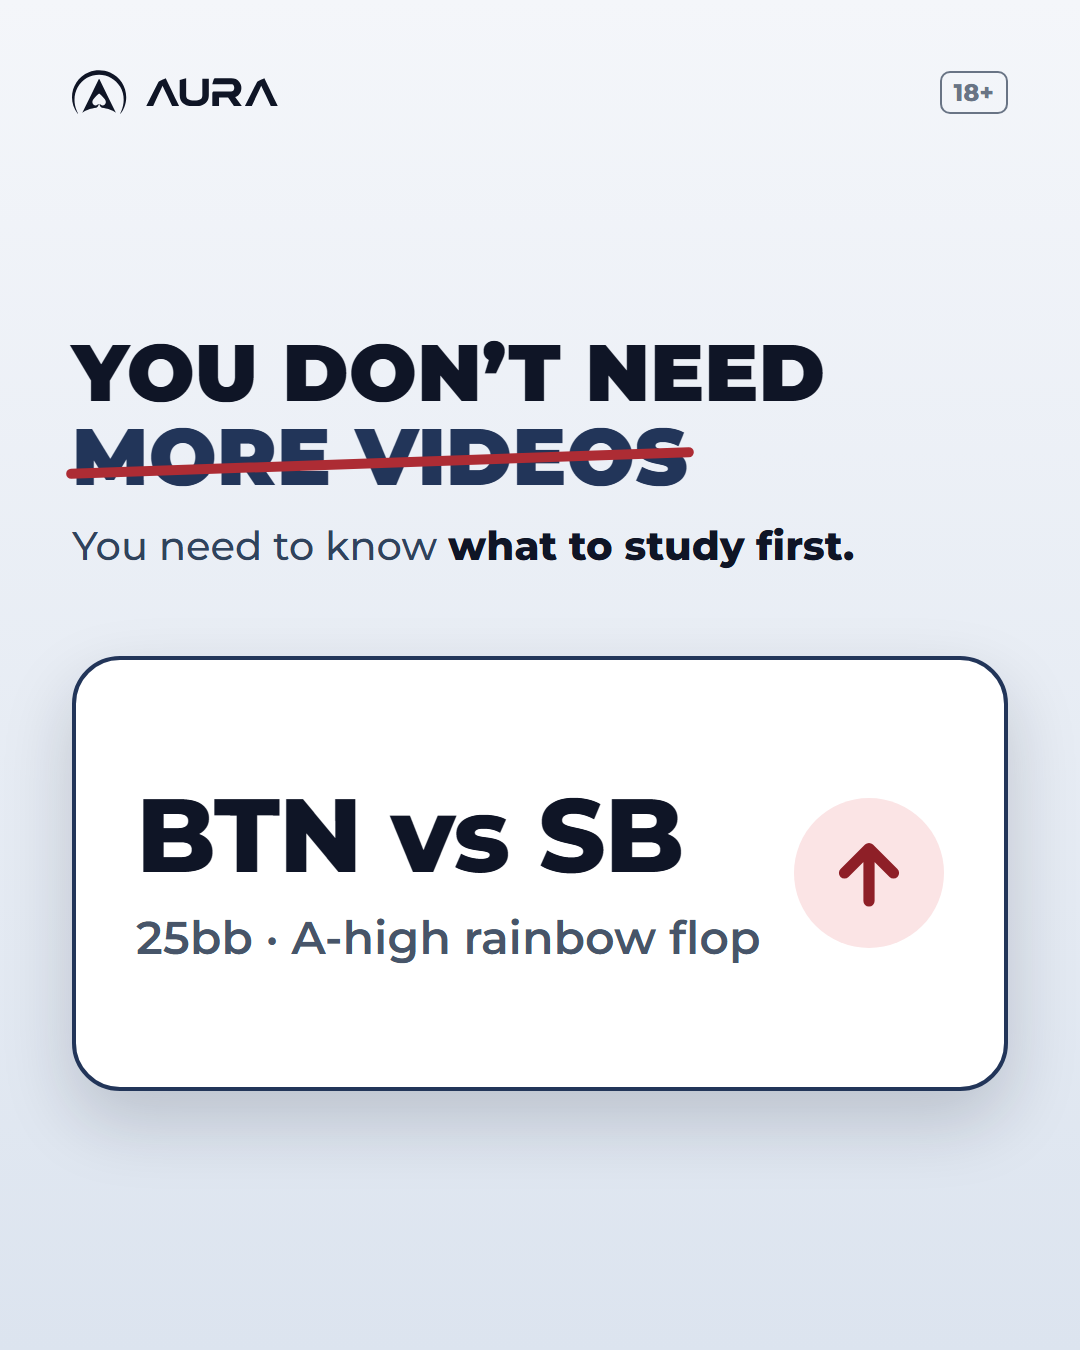
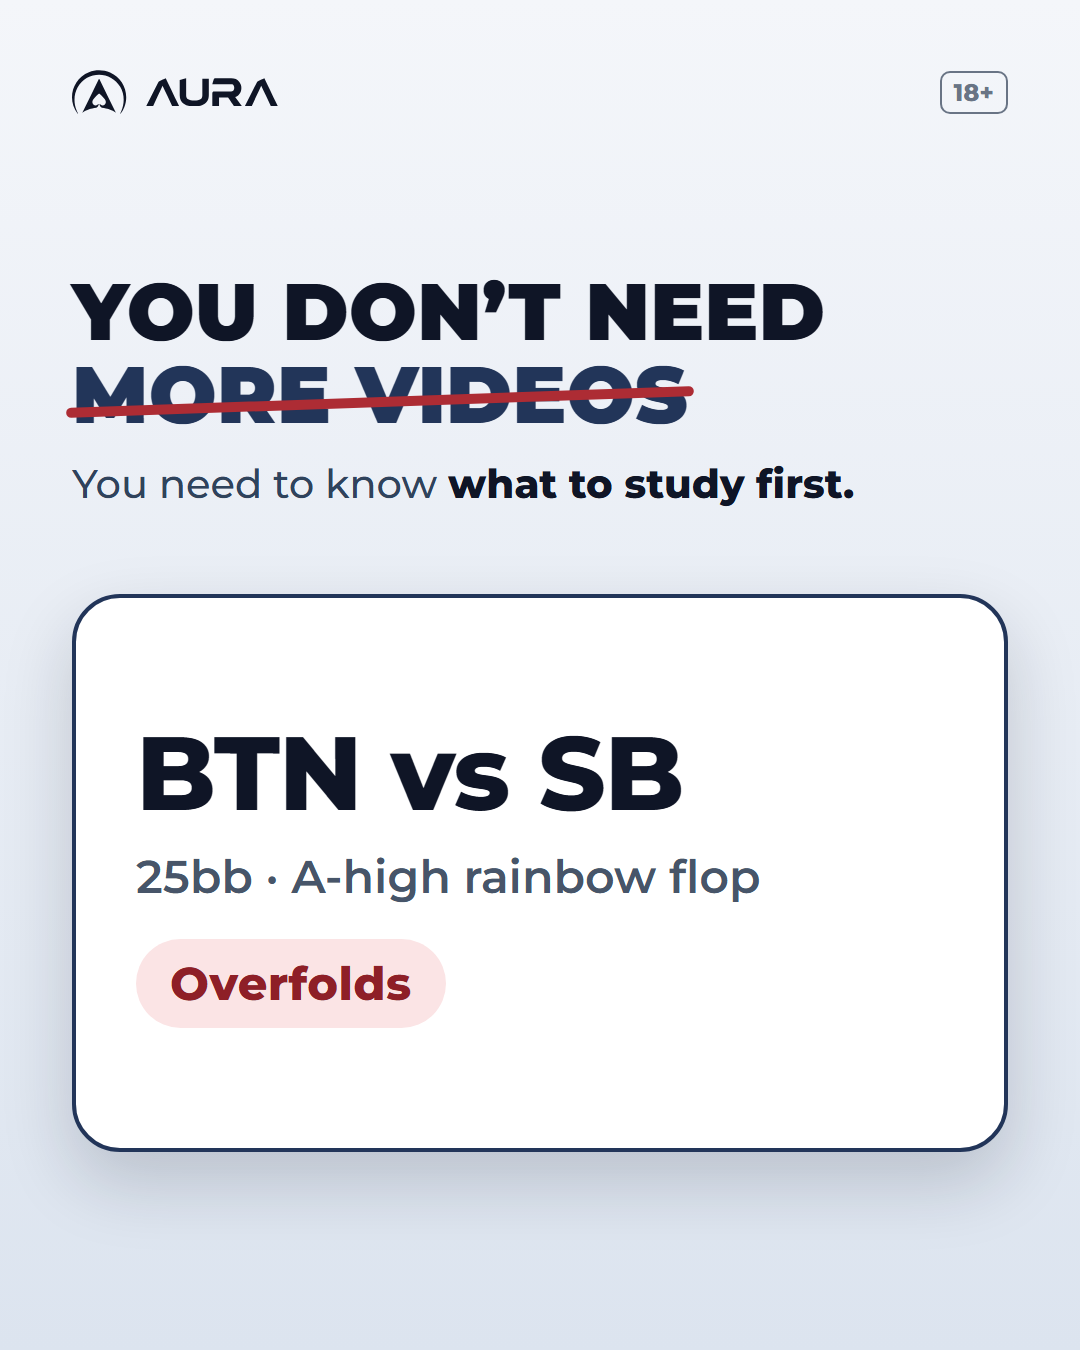
feat(ads): peça B com o rótulo "Folda demais" / "Overfolds" no lugar da seta
Pedido da HUB: a seta sozinha podia ser lida como "subiu" ou "bom".

Changed region(s): [[0.0611, 0.1867, 0.9472, 0.5289], [0.0611, 0.5289, 0.9472, 0.8711], [0.7333, 0.5911, 0.8861, 0.7156]]

diff --git a/content/ads/sinal01/fonte/pt/sinal01-B-pt-feed.html b/content/ads/sinal01/fonte/pt/sinal01-B-pt-feed.html
@@ -8,6 +8,6 @@
 <path d="M306.766 264.784H384.095C387.141 264.784 389.709 264.054 391.785 262.581C393.862 261.12 395.448 258.853 396.555 255.794C397.046 254.572 397.411 253.351 397.65 252.13C397.889 250.782 398.015 249.448 398.015 248.1C398.015 244.801 397.462 241.993 396.367 239.664C395.272 237.221 393.623 235.269 391.42 233.796C390.325 233.066 389.155 232.575 387.934 232.336C386.713 231.97 385.429 231.782 384.083 231.782H299.429C300.889 226.896 303.091 219.618 306.024 209.973C306.515 208.386 307.37 207.102 308.591 206.12C309.938 205.138 311.461 204.659 313.173 204.659H384.448C392.264 204.659 399.224 206.07 405.34 208.877C411.445 211.811 416.706 216.092 421.098 221.708C424.144 225.864 426.41 230.258 427.882 234.904C429.468 239.425 430.261 244.31 430.261 249.573C430.261 255.806 429.166 261.485 426.963 266.622C424.887 271.634 421.765 276.154 417.612 280.184C415.409 282.261 413.031 284.1 410.463 285.686C407.895 287.147 405.152 288.381 402.219 289.35C409.305 298.882 419.865 313.186 433.923 332.25H398.015C391.911 323.335 382.685 309.887 370.351 291.919H329.673V332.25H299.441V272.314C299.441 270.236 300.171 268.461 301.644 267C303.104 265.54 304.815 264.797 306.779 264.797L306.766 264.784Z"/>
 <path d="M476.263 332.237H445.112C454.275 314.156 463.374 296.062 472.411 277.98C481.574 259.899 490.737 241.804 499.899 223.723C500.755 222.262 501.787 220.915 503.021 219.694C504.241 218.598 505.588 217.679 507.048 216.949C511.567 214.871 516.022 212.793 520.427 210.716C524.946 208.638 529.401 206.624 533.806 204.672C547.361 233.028 567.763 275.55 595 332.25H563.673C556.348 316.611 549.01 301.023 541.685 285.51C534.36 269.871 526.959 254.232 519.521 238.581C512.309 254.22 505.11 269.871 497.898 285.51C490.686 301.035 483.487 316.611 476.275 332.25L476.263 332.237Z"/></svg></span></div><span class="age">18+</span></div>
   <div class="main"><div><h1>Você não precisa<br>de <s>mais vídeo</s></h1><p class="sup">Precisa saber <b>o que estudar primeiro.</b></p></div>
-    <div class="card"><div><div class="p">BTN vs SB</div><div class="q">25bb · flop A-high rainbow</div></div><span class="ar"><svg viewBox="0 0 24 24" fill="none" stroke="currentColor" stroke-width="3.2" stroke-linecap="round" stroke-linejoin="round"><path d="M12 20V5M5 12l7-7 7 7"/></svg></span></div></div>
+    <div class="card"><div><div class="p">BTN vs SB</div><div class="q">25bb · flop A-high rainbow</div><span class="tag">Folda demais</span></div></div></div>
 
 </body></html>

diff --git a/content/ads/sinal01/fonte/pt/sinal01-B-pt-story.html b/content/ads/sinal01/fonte/pt/sinal01-B-pt-story.html
@@ -8,6 +8,6 @@
 <path d="M306.766 264.784H384.095C387.141 264.784 389.709 264.054 391.785 262.581C393.862 261.12 395.448 258.853 396.555 255.794C397.046 254.572 397.411 253.351 397.65 252.13C397.889 250.782 398.015 249.448 398.015 248.1C398.015 244.801 397.462 241.993 396.367 239.664C395.272 237.221 393.623 235.269 391.42 233.796C390.325 233.066 389.155 232.575 387.934 232.336C386.713 231.97 385.429 231.782 384.083 231.782H299.429C300.889 226.896 303.091 219.618 306.024 209.973C306.515 208.386 307.37 207.102 308.591 206.12C309.938 205.138 311.461 204.659 313.173 204.659H384.448C392.264 204.659 399.224 206.07 405.34 208.877C411.445 211.811 416.706 216.092 421.098 221.708C424.144 225.864 426.41 230.258 427.882 234.904C429.468 239.425 430.261 244.31 430.261 249.573C430.261 255.806 429.166 261.485 426.963 266.622C424.887 271.634 421.765 276.154 417.612 280.184C415.409 282.261 413.031 284.1 410.463 285.686C407.895 287.147 405.152 288.381 402.219 289.35C409.305 298.882 419.865 313.186 433.923 332.25H398.015C391.911 323.335 382.685 309.887 370.351 291.919H329.673V332.25H299.441V272.314C299.441 270.236 300.171 268.461 301.644 267C303.104 265.54 304.815 264.797 306.779 264.797L306.766 264.784Z"/>
 <path d="M476.263 332.237H445.112C454.275 314.156 463.374 296.062 472.411 277.98C481.574 259.899 490.737 241.804 499.899 223.723C500.755 222.262 501.787 220.915 503.021 219.694C504.241 218.598 505.588 217.679 507.048 216.949C511.567 214.871 516.022 212.793 520.427 210.716C524.946 208.638 529.401 206.624 533.806 204.672C547.361 233.028 567.763 275.55 595 332.25H563.673C556.348 316.611 549.01 301.023 541.685 285.51C534.36 269.871 526.959 254.232 519.521 238.581C512.309 254.22 505.11 269.871 497.898 285.51C490.686 301.035 483.487 316.611 476.275 332.25L476.263 332.237Z"/></svg></span></div><span class="age">18+</span></div>
   <div class="main"><div><h1>Você não precisa<br>de <s>mais vídeo</s></h1><p class="sup">Precisa saber <b>o que estudar primeiro.</b></p></div>
-    <div class="card"><div><div class="p">BTN vs SB</div><div class="q">25bb · flop A-high rainbow</div></div><span class="ar"><svg viewBox="0 0 24 24" fill="none" stroke="currentColor" stroke-width="3.2" stroke-linecap="round" stroke-linejoin="round"><path d="M12 20V5M5 12l7-7 7 7"/></svg></span></div></div>
+    <div class="card"><div><div class="p">BTN vs SB</div><div class="q">25bb · flop A-high rainbow</div><span class="tag">Folda demais</span></div></div></div>
 
 </body></html>

diff --git a/content/ads/sinal01/fonte/en/sinal01-B-en-feed.html b/content/ads/sinal01/fonte/en/sinal01-B-en-feed.html
@@ -8,6 +8,6 @@
 <path d="M306.766 264.784H384.095C387.141 264.784 389.709 264.054 391.785 262.581C393.862 261.12 395.448 258.853 396.555 255.794C397.046 254.572 397.411 253.351 397.65 252.13C397.889 250.782 398.015 249.448 398.015 248.1C398.015 244.801 397.462 241.993 396.367 239.664C395.272 237.221 393.623 235.269 391.42 233.796C390.325 233.066 389.155 232.575 387.934 232.336C386.713 231.97 385.429 231.782 384.083 231.782H299.429C300.889 226.896 303.091 219.618 306.024 209.973C306.515 208.386 307.37 207.102 308.591 206.12C309.938 205.138 311.461 204.659 313.173 204.659H384.448C392.264 204.659 399.224 206.07 405.34 208.877C411.445 211.811 416.706 216.092 421.098 221.708C424.144 225.864 426.41 230.258 427.882 234.904C429.468 239.425 430.261 244.31 430.261 249.573C430.261 255.806 429.166 261.485 426.963 266.622C424.887 271.634 421.765 276.154 417.612 280.184C415.409 282.261 413.031 284.1 410.463 285.686C407.895 287.147 405.152 288.381 402.219 289.35C409.305 298.882 419.865 313.186 433.923 332.25H398.015C391.911 323.335 382.685 309.887 370.351 291.919H329.673V332.25H299.441V272.314C299.441 270.236 300.171 268.461 301.644 267C303.104 265.54 304.815 264.797 306.779 264.797L306.766 264.784Z"/>
 <path d="M476.263 332.237H445.112C454.275 314.156 463.374 296.062 472.411 277.98C481.574 259.899 490.737 241.804 499.899 223.723C500.755 222.262 501.787 220.915 503.021 219.694C504.241 218.598 505.588 217.679 507.048 216.949C511.567 214.871 516.022 212.793 520.427 210.716C524.946 208.638 529.401 206.624 533.806 204.672C547.361 233.028 567.763 275.55 595 332.25H563.673C556.348 316.611 549.01 301.023 541.685 285.51C534.36 269.871 526.959 254.232 519.521 238.581C512.309 254.22 505.11 269.871 497.898 285.51C490.686 301.035 483.487 316.611 476.275 332.25L476.263 332.237Z"/></svg></span></div><span class="age">18+</span></div>
   <div class="main"><div><h1>You don’t need<br><s>more videos</s></h1><p class="sup">You need to know <b>what to study first.</b></p></div>
-    <div class="card"><div><div class="p">BTN vs SB</div><div class="q">25bb · A-high rainbow flop</div></div><span class="ar"><svg viewBox="0 0 24 24" fill="none" stroke="currentColor" stroke-width="3.2" stroke-linecap="round" stroke-linejoin="round"><path d="M12 20V5M5 12l7-7 7 7"/></svg></span></div></div>
+    <div class="card"><div><div class="p">BTN vs SB</div><div class="q">25bb · A-high rainbow flop</div><span class="tag">Overfolds</span></div></div></div>
 
 </body></html>

diff --git a/content/ads/sinal01/fonte/en/sinal01-B-en-story.html b/content/ads/sinal01/fonte/en/sinal01-B-en-story.html
@@ -8,6 +8,6 @@
 <path d="M306.766 264.784H384.095C387.141 264.784 389.709 264.054 391.785 262.581C393.862 261.12 395.448 258.853 396.555 255.794C397.046 254.572 397.411 253.351 397.65 252.13C397.889 250.782 398.015 249.448 398.015 248.1C398.015 244.801 397.462 241.993 396.367 239.664C395.272 237.221 393.623 235.269 391.42 233.796C390.325 233.066 389.155 232.575 387.934 232.336C386.713 231.97 385.429 231.782 384.083 231.782H299.429C300.889 226.896 303.091 219.618 306.024 209.973C306.515 208.386 307.37 207.102 308.591 206.12C309.938 205.138 311.461 204.659 313.173 204.659H384.448C392.264 204.659 399.224 206.07 405.34 208.877C411.445 211.811 416.706 216.092 421.098 221.708C424.144 225.864 426.41 230.258 427.882 234.904C429.468 239.425 430.261 244.31 430.261 249.573C430.261 255.806 429.166 261.485 426.963 266.622C424.887 271.634 421.765 276.154 417.612 280.184C415.409 282.261 413.031 284.1 410.463 285.686C407.895 287.147 405.152 288.381 402.219 289.35C409.305 298.882 419.865 313.186 433.923 332.25H398.015C391.911 323.335 382.685 309.887 370.351 291.919H329.673V332.25H299.441V272.314C299.441 270.236 300.171 268.461 301.644 267C303.104 265.54 304.815 264.797 306.779 264.797L306.766 264.784Z"/>
 <path d="M476.263 332.237H445.112C454.275 314.156 463.374 296.062 472.411 277.98C481.574 259.899 490.737 241.804 499.899 223.723C500.755 222.262 501.787 220.915 503.021 219.694C504.241 218.598 505.588 217.679 507.048 216.949C511.567 214.871 516.022 212.793 520.427 210.716C524.946 208.638 529.401 206.624 533.806 204.672C547.361 233.028 567.763 275.55 595 332.25H563.673C556.348 316.611 549.01 301.023 541.685 285.51C534.36 269.871 526.959 254.232 519.521 238.581C512.309 254.22 505.11 269.871 497.898 285.51C490.686 301.035 483.487 316.611 476.275 332.25L476.263 332.237Z"/></svg></span></div><span class="age">18+</span></div>
   <div class="main"><div><h1>You don’t need<br><s>more videos</s></h1><p class="sup">You need to know <b>what to study first.</b></p></div>
-    <div class="card"><div><div class="p">BTN vs SB</div><div class="q">25bb · A-high rainbow flop</div></div><span class="ar"><svg viewBox="0 0 24 24" fill="none" stroke="currentColor" stroke-width="3.2" stroke-linecap="round" stroke-linejoin="round"><path d="M12 20V5M5 12l7-7 7 7"/></svg></span></div></div>
+    <div class="card"><div><div class="p">BTN vs SB</div><div class="q">25bb · A-high rainbow flop</div><span class="tag">Overfolds</span></div></div></div>
 
 </body></html>

diff --git a/content/ads/sinal01/fonte/en/sinal01-B-en-feed.css b/content/ads/sinal01/fonte/en/sinal01-B-en-feed.css
@@ -23,6 +23,5 @@ h1 s::after{content:"";position:absolute;left:-6px;right:-6px;top:52%;height:10p
 .card{display:flex;align-items:center;justify-content:space-between;gap:30px;background:#fff;border:4px solid #223559;border-radius:48px;box-shadow:0 30px 70px rgba(15,21,38,.18);padding:120px 60px}
 .card .p{font-size:104px;font-weight:800;line-height:1.05;color:#0F1526;letter-spacing:-.01em}
 .card .q{font-size:46px;font-weight:600;line-height:1.25;color:#475569;margin-top:20px}
-.card .ar{flex:none;width:150px;height:150px;border-radius:50%;background:#FBE4E5;color:#8E1F27;display:flex;align-items:center;justify-content:center}
-.card .ar svg{width:84px;height:84px}
+.card .tag{display:inline-block;margin-top:34px;padding:16px 34px;border-radius:999px;background:#FBE4E5;color:#8E1F27;font-size:46px;font-weight:800;letter-spacing:.01em}
 .age{color:#475569}

diff --git a/content/ads/sinal01/fonte/en/sinal01-B-en-story.css b/content/ads/sinal01/fonte/en/sinal01-B-en-story.css
@@ -23,6 +23,5 @@ h1 s::after{content:"";position:absolute;left:-6px;right:-6px;top:52%;height:12p
 .card{display:flex;align-items:center;justify-content:space-between;gap:30px;background:#fff;border:4px solid #223559;border-radius:48px;box-shadow:0 30px 70px rgba(15,21,38,.18);padding:110px 60px}
 .card .p{font-size:112px;font-weight:800;line-height:1.05;color:#0F1526;letter-spacing:-.01em}
 .card .q{font-size:46px;font-weight:600;line-height:1.25;color:#475569;margin-top:20px}
-.card .ar{flex:none;width:150px;height:150px;border-radius:50%;background:#FBE4E5;color:#8E1F27;display:flex;align-items:center;justify-content:center}
-.card .ar svg{width:84px;height:84px}
+.card .tag{display:inline-block;margin-top:34px;padding:16px 34px;border-radius:999px;background:#FBE4E5;color:#8E1F27;font-size:50px;font-weight:800;letter-spacing:.01em}
 .age{color:#475569}

diff --git a/content/ads/sinal01/fonte/pt/sinal01-B-pt-feed.css b/content/ads/sinal01/fonte/pt/sinal01-B-pt-feed.css
@@ -23,6 +23,5 @@ h1 s::after{content:"";position:absolute;left:-6px;right:-6px;top:52%;height:10p
 .card{display:flex;align-items:center;justify-content:space-between;gap:30px;background:#fff;border:4px solid #223559;border-radius:48px;box-shadow:0 30px 70px rgba(15,21,38,.18);padding:120px 60px}
 .card .p{font-size:104px;font-weight:800;line-height:1.05;color:#0F1526;letter-spacing:-.01em}
 .card .q{font-size:46px;font-weight:600;line-height:1.25;color:#475569;margin-top:20px}
-.card .ar{flex:none;width:150px;height:150px;border-radius:50%;background:#FBE4E5;color:#8E1F27;display:flex;align-items:center;justify-content:center}
-.card .ar svg{width:84px;height:84px}
+.card .tag{display:inline-block;margin-top:34px;padding:16px 34px;border-radius:999px;background:#FBE4E5;color:#8E1F27;font-size:46px;font-weight:800;letter-spacing:.01em}
 .age{color:#475569}

diff --git a/content/ads/sinal01/fonte/pt/sinal01-B-pt-story.css b/content/ads/sinal01/fonte/pt/sinal01-B-pt-story.css
@@ -23,6 +23,5 @@ h1 s::after{content:"";position:absolute;left:-6px;right:-6px;top:52%;height:12p
 .card{display:flex;align-items:center;justify-content:space-between;gap:30px;background:#fff;border:4px solid #223559;border-radius:48px;box-shadow:0 30px 70px rgba(15,21,38,.18);padding:110px 60px}
 .card .p{font-size:112px;font-weight:800;line-height:1.05;color:#0F1526;letter-spacing:-.01em}
 .card .q{font-size:46px;font-weight:600;line-height:1.25;color:#475569;margin-top:20px}
-.card .ar{flex:none;width:150px;height:150px;border-radius:50%;background:#FBE4E5;color:#8E1F27;display:flex;align-items:center;justify-content:center}
-.card .ar svg{width:84px;height:84px}
+.card .tag{display:inline-block;margin-top:34px;padding:16px 34px;border-radius:999px;background:#FBE4E5;color:#8E1F27;font-size:50px;font-weight:800;letter-spacing:.01em}
 .age{color:#475569}

diff --git a/content/ads/sinal01/copy-sinal01.md b/content/ads/sinal01/copy-sinal01.md
@@ -32,7 +32,7 @@ Público: quem já acumulou vídeo e curso e não sabe por onde começar.
 | Headline do anúncio | Estude o spot certo primeiro | 28 |
 | Descrição | Onde o field mais erra | 22 |
 | CTA | Learn More | |
-| Visual | Um card grande "BTN vs SB · 25bb · flop A-high rainbow" com uma seta de destaque. 18+ discreto no topo à direita. Sem chip, sem lista, sem tag de desvio. | |
+| Visual | Um card grande "BTN vs SB · 25bb · flop A-high rainbow" com o rótulo "Folda demais" em vermelho. 18+ discreto no topo à direita. Sem chip e sem lista. | |
 
 ## C) ENTRADA GRÁTIS
 

diff --git a/content/ads/sinal01/en/copy-sinal01.md b/content/ads/sinal01/en/copy-sinal01.md
@@ -34,7 +34,7 @@ Público: quem já acumulou vídeo e curso e não sabe por onde começar.
 | Ad headline | Study the right spot first | 26 |
 | Description | Where the field errs most | 25 |
 | CTA | Learn More | |
-| Visual | One large card "BTN vs SB · 25bb · A-high rainbow flop" with a simple highlight arrow. Discreet 18+ at the top right. No chip, no list, no deviation tag. | |
+| Visual | One large card "BTN vs SB · 25bb · A-high rainbow flop" with the label "Overfolds" in red. Discreet 18+ at the top right. No chip, no list. | |
 
 ---
 
